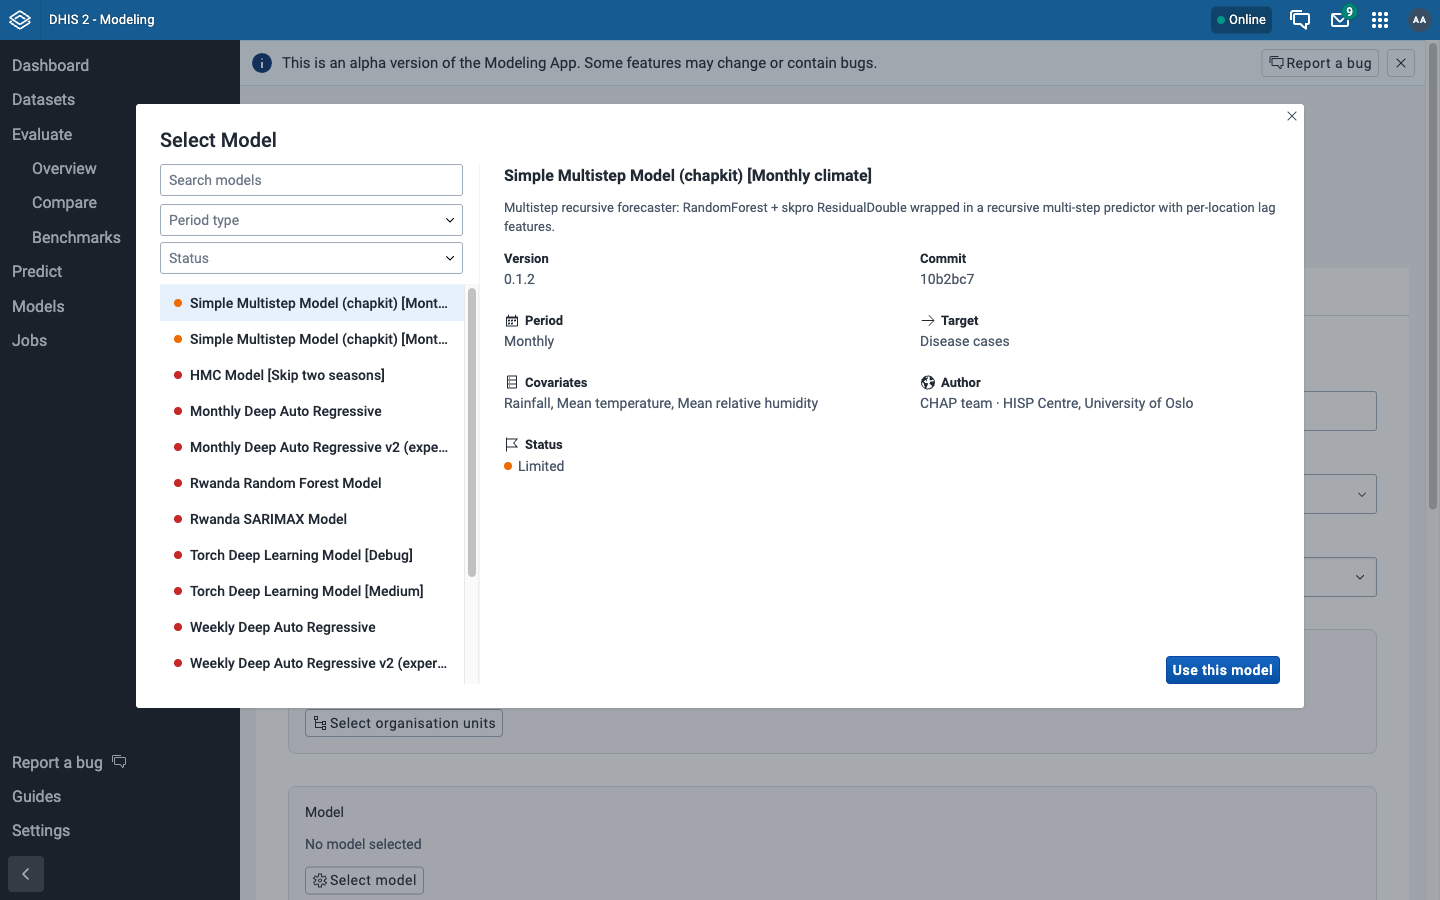
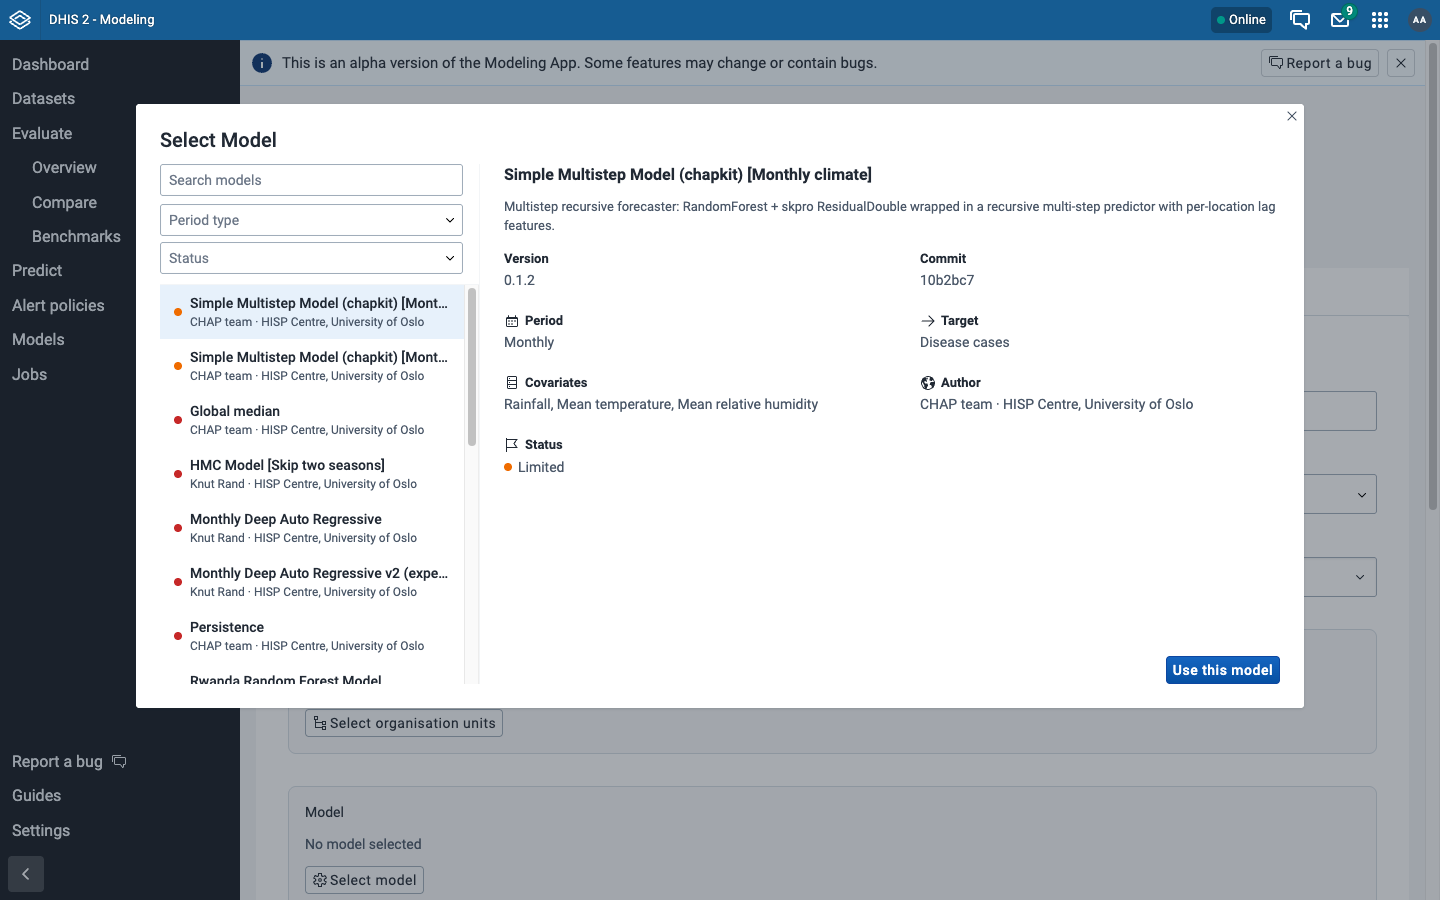
docs: the Modeling App walkthrough again, on Modeling App 7.3.0 and chap-core v2.5.0
Every screenshot is new, from a deployment made by chap-devops v0.110.0.
7.3.0 shows the author under each model, lists the three built-in baselines,
adds an Alert policy to a prediction setup, and has Import on a page of its
own, where Use alert outputs is on by default and needs an outbreak
indicator before Clear and import works. The times are the ones measured.

BUGS.md lists the bugs found while testing in the systems chap-devops
deploys: the Modeling App, the DHIS2 demo database, chap-core, chapkit, OCS
and chap-models.

diff --git a/docs/modeling-app.md b/docs/modeling-app.md
@@ -20,8 +20,9 @@ It also makes the configured models that the Modeling App lists. It took about
 40 seconds. Its last line is
 `` the Modeling App can reach Chap; open DHIS2 with `chap-devops open dhis2` ``.
 
-Tested on 2026-10-12 with Modeling App 7.2.0, DHIS2 2.42.6 with the Laos demo
-database, chap-core v2.4.0 and Simple Multistep (chapkit) 0.1.2. Other versions of the Modeling
+Tested on 2026-10-19 with chap-devops v0.110.0, Modeling App 7.3.0, DHIS2
+2.42.6 with the Laos demo database, chap-core v2.5.0 and Simple Multistep
+(chapkit) 0.1.2. Other versions of the Modeling
 App may name a button differently; the steps stay the same. `chap-devops dhis2 show`
 says which Modeling App version a deployment has.
 
@@ -92,10 +93,14 @@ configs add`. See [Adding](./models.md#adding).
 `chap-devops models test --all` makes each model train and predict. See
 [Configured models](./models.md#configured-models).
 
-The list also holds models that chap-core ships configured on its own and runs
-inside its worker, such as **CHAP-EWARS Model** and **Monthly CHAP-EWARS
-model**. Some of them have the status *Deprecated*. They are not models that
-`chap-devops` started. The two `(chapkit)` entries have the status *Limited*.
+Under each name, the list shows the author of the model. The list also holds
+models that chap-core ships configured on its own and runs inside its worker,
+such as **CHAP-EWARS Model** and **Monthly CHAP-EWARS model**. Some of them
+have the status *Deprecated*. From chap-core v2.5.0, it also has the three
+built-in baselines, **Persistence**, **Global median** and **Seasonal
+median**. chap-core runs them beside each evaluation, so you can compare a
+model with them. None of these are models that `chap-devops` started. The two
+`(chapkit)` entries have the status *Limited*.
 
 ![Organisation units: Lao PDR at the Province level](images/modeling-app/03-org-units.png)
 
@@ -124,7 +129,7 @@ anything, and should say *All 18 locations can be successfully imported*.
 ![The dry run: 18 valid locations](images/modeling-app/05-dry-run.png)
 
 Close it and choose **Start import**. The app moves to **Jobs**, where the
-evaluation runs. With Simple Multistep it took about 25 seconds on an Apple
+evaluation runs. With Simple Multistep it took about 24 seconds on an Apple
 Silicon Mac (M2 Max), where the model runs under emulation. `chap-devops jobs` in the
 terminal shows the same job; its type is `create_backtest_from_data`.
 
@@ -167,7 +172,8 @@ marketplace models come with `chap-devops models enable ID` and `chap-devops up`
 
 On the evaluation, **Create prediction setup** keeps the model, the data
 mapping and the provinces under a name: type one in **Setup name**, leave
-**Set default import mapping** off and **Save**. The app then opens the setup.
+**Alert policy** at *No alert policy* and **Set default import mapping** off,
+and **Save**. The app then opens the setup.
 Once the evaluation has a setup, the same button says **Predict**.
 
 ![Creating a prediction setup](images/modeling-app/09-prediction-setup.png)
@@ -180,18 +186,25 @@ prediction** again. The app goes back to the setup, where the run shows as
 
 ![Running a prediction](images/modeling-app/10-run-prediction.png)
 
-The job took about 6 seconds in `chap-devops jobs`. The row in the app said
+The job took about 7 seconds in `chap-devops jobs`. The row in the app said
 *Success* within a minute, without a reload.
 **Go to last run** shows one chart per province:
 the real cases up to December 2024 and the forecast for January to March 2025.
 
 ![A forecast per province](images/modeling-app/11-forecast.png)
 
-**Import**, on the right of the forecast, writes the forecast back into DHIS2
-as data, where dashboards and maps can use it. It needs five data elements for
-the forecast's quantiles. Each box is empty at first; open it, and it lists
-the elements of the demo database under **Suggested**. Pick
-`CHAP Dengue Cases (Any) - Weekly Quantile High` to `... Quantile Low`.
+**Import**, on the right of the forecast, opens a page that writes the
+forecast back into DHIS2 as data, where dashboards and maps can use it. It
+needs five data elements for the forecast's quantiles. Each box is empty at
+first; open it, and it lists the elements of the demo database under
+**Suggested**. Pick `CHAP Dengue Cases (Any) - Weekly Quantile High` to
+`... Quantile Low`.
+
+**Use alert outputs** is on by default, and then the page also needs an
+**Outbreak indicator**: **Clear and import** does nothing until it has one,
+and the message is under the box, below the first screen. Pick
+`CHAP Dengue Cases (Any) - Weekly Outbreak Alert`; the box does not suggest it,
+so type `Outbreak` to find it. Or turn **Use alert outputs** off.
 **Clear and import** asks once more before it writes, then the app goes back
 to the setup. DHIS2 2.42.6 accepted the monthly values into those elements,
 but their data set is weekly. For a monthly forecast, create monthly data
@@ -204,6 +217,7 @@ elements in DHIS2's Maintenance app and pick those.
 | Typing `Modeling` in the app menu finds nothing | `chap-devops dhis2 connect` has not run, or failed; run it and read its last line. |
 | The model list does not have the model `chap-devops` enabled | `chap-devops status`: the model must be `registered`. If it says `registered, not configured`, run `chap-devops models configs sync`. Otherwise the line under the table says why. |
 | `Oops! Sorry, an unexpected error`, or `Unnamed evaluation` rows, after the deployment was recreated | The browser holds a login to the DHIS2 that was removed: open DHIS2 again and log in. See [Troubleshooting](./troubleshooting.md#oops-sorry-an-unexpected-error-or-unnamed-evaluation-in-the-modeling-app). |
+| **Clear and import** does nothing | Scroll down: with **Use alert outputs** on, the page says `Outbreak indicator is required`. Pick `CHAP Dengue Cases (Any) - Weekly Outbreak Alert`, or turn **Use alert outputs** off. |
 | A job in **Jobs** says it failed | `chap-devops jobs`, then `chap-devops jobs logs ID` with the id it prints: the model's own error is at the end. |
 
 More on connecting DHIS2 and Chap: [DHIS2](./dhis2.md). The Modeling App's own

diff --git a/BUGS.md b/BUGS.md
@@ -1,0 +1,106 @@
+# Bugs found while testing chap-devops
+
+Bugs in the systems that chap-devops deploys, found by running them for real.
+Bugs in chap-devops itself are fixed in the same session and are not listed.
+Each entry names where it was seen, what happens, and what would fix it.
+
+## Modeling App
+
+### Import is blocked by default: "Outbreak indicator is required"
+
+- Seen: Modeling App 7.3.0, DHIS2 2.42.6 with the Laos demo database,
+  chap-core v2.5.0, 2026-10-19.
+- On **Import** of a prediction, **Use alert outputs** is on by default. The
+  form then needs an **Outbreak indicator**, and **Clear and import** does
+  nothing until one is picked; the message is under the box, below the fold.
+- The Laos demo database has a fitting element, `CHAP Dengue Cases (Any) -
+  Weekly Outbreak Alert`, but the box does not suggest it, while each quantile
+  box suggests its own `CHAP ... Quantile ...` element.
+- Fix: suggest the outbreak alert element as the quantile elements are
+  suggested, or default the switch to off when the setup has no alert policy
+  (the setup in this test had none).
+
+### Times are off by the UTC offset
+
+- Seen: Modeling App 7.3.0 with chap-core v2.5.0, at 22:10 CEST (UTC+2).
+- A prediction run started at 22:10 shows **Created 19.10.2026, 20:10** and
+  **Last run about 2 hours ago**.
+- chap-core returns `created` as `2026-10-19T20:10:43.203219`: UTC, with no
+  time zone. The app reads it as local time.
+- Fix: chap-core sends the offset (`...Z`), or the app reads a timestamp with
+  no zone as UTC.
+
+### The optional endemic threshold has no element in the demo database
+
+- Seen: same as above.
+- The import form has **Endemic threshold (optional)**; the Laos demo database
+  has no element for it. Not a blocker, but the demo cannot show the feature.
+
+## DHIS2 demo database (Laos, 2.42)
+
+### The CHAP output elements are weekly, the forecasts monthly
+
+- The `CHAP Dengue Cases (Any) - Weekly Quantile ...` and `... Outbreak Alert`
+  elements belong to a weekly data set. A monthly forecast imports into them
+  (DHIS2 2.42.6 accepts the values), but a monthly forecast has no monthly
+  elements to go to.
+- Fix: add monthly CHAP output elements to the demo database.
+
+## chap-core
+
+### A dataset that the baselines ran on cannot be deleted (CLIM-1447)
+
+- Seen: chap-core `master` before v2.5.0, and v2.5.0.
+- `DELETE /v1/crud/datasets/{id}` answers HTTP 500 (`ForeignKeyViolation ...
+  "backtest_dataset_id_fkey"`) after a backtest, because the built-in
+  baselines wrote backtests on the dataset. Every backtest listing hides
+  them, so a client cannot find them to delete them first. The only way is
+  through the `result` of the `run_baseline` jobs, which chap-devops uses.
+
+### The refusal of a template without a revision contradicts itself
+
+- `stored from revision None, but its source now reports revision None`.
+
+### `GET /v1/jobs/{id}` gives the status only
+
+- It answers `"SUCCESS"`, while `GET /v1/jobs` gives the whole job, with its
+  start time and result.
+
+## chapkit (2.4.0)
+
+### `chapkit --version` prints the servicekit version
+
+- It prints `servicekit version 3.0.0`; the chapkit version is 2.4.0.
+
+### `chapkit mlproject export` warns about `author_note` on every service
+
+- A service with a `description` and no `author_note` gets `WARNING:
+  info.model_metadata: the MLproject gives {'author_note': ...}`.
+  `cli/mlproject.py` uses `description` when `author_note` is missing; the
+  self-check of the export does not.
+
+### `chapkit mlproject migrate` finds scripts at the project root only
+
+- `No Python (.py) or R (.r/.R) scripts at the project root; cannot pick a
+  base image.` for a model with its scripts in `scripts/`. It could read the
+  script paths in the train and predict commands.
+
+### The `-cli` images log an error at start
+
+- `SQLAlchemyInstrumentor only instruments "sqlalchemy >= 1.0.0, < 2.1.0",
+  but currently installed version ("sqlalchemy 2.1.4")`, at level `error`.
+
+## Open Climate Service (`main`)
+
+### A failed read from the CHIRPS3 server is a 500, with no retry
+
+- `POST /ingestions` answered 500 (`RasterioIOError: Read failed`,
+  `TIFFFillTile ... got 0 bytes`) once; the same request passed 4 seconds
+  later.
+
+## chap-models
+
+- IMPA-TECH-SARIMA fails in chap itself (`NoPredictionsError`).
+- rwanda_random_forest fails at train when served with `mlproject run`.
+- chap_pymc needs the packages of its `uv_env`, which a `-cli` image does not
+  have.
